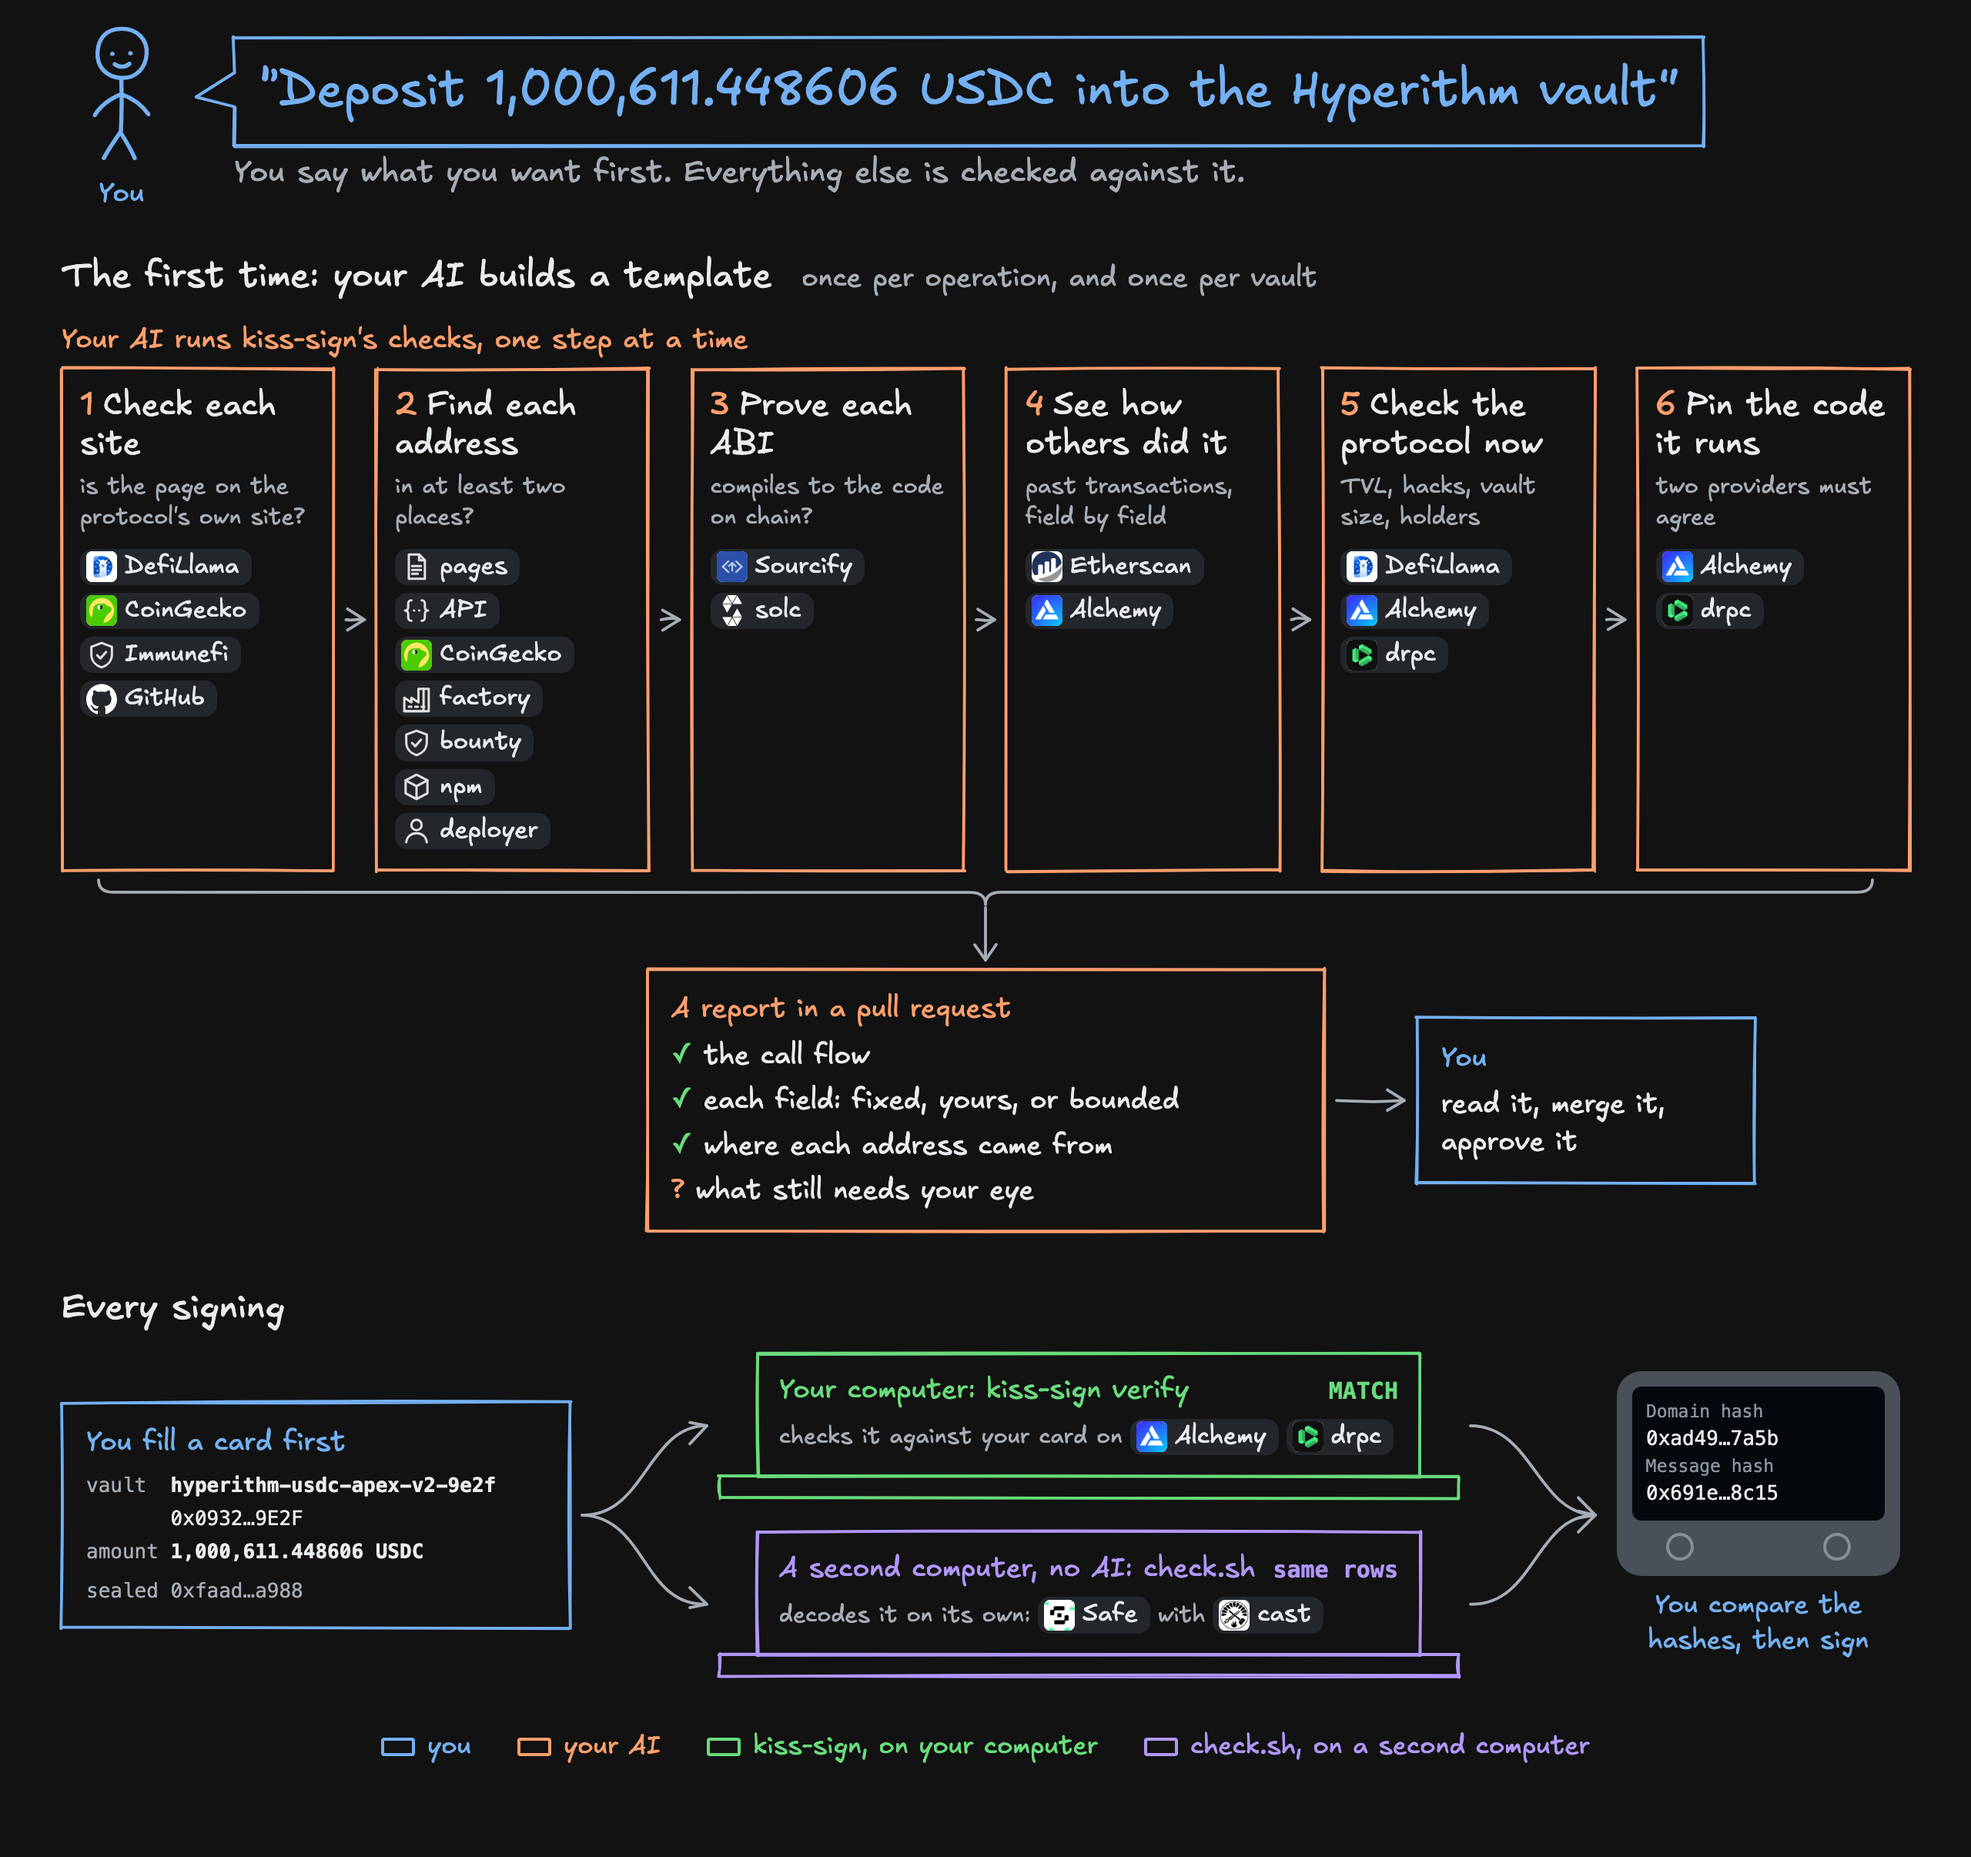
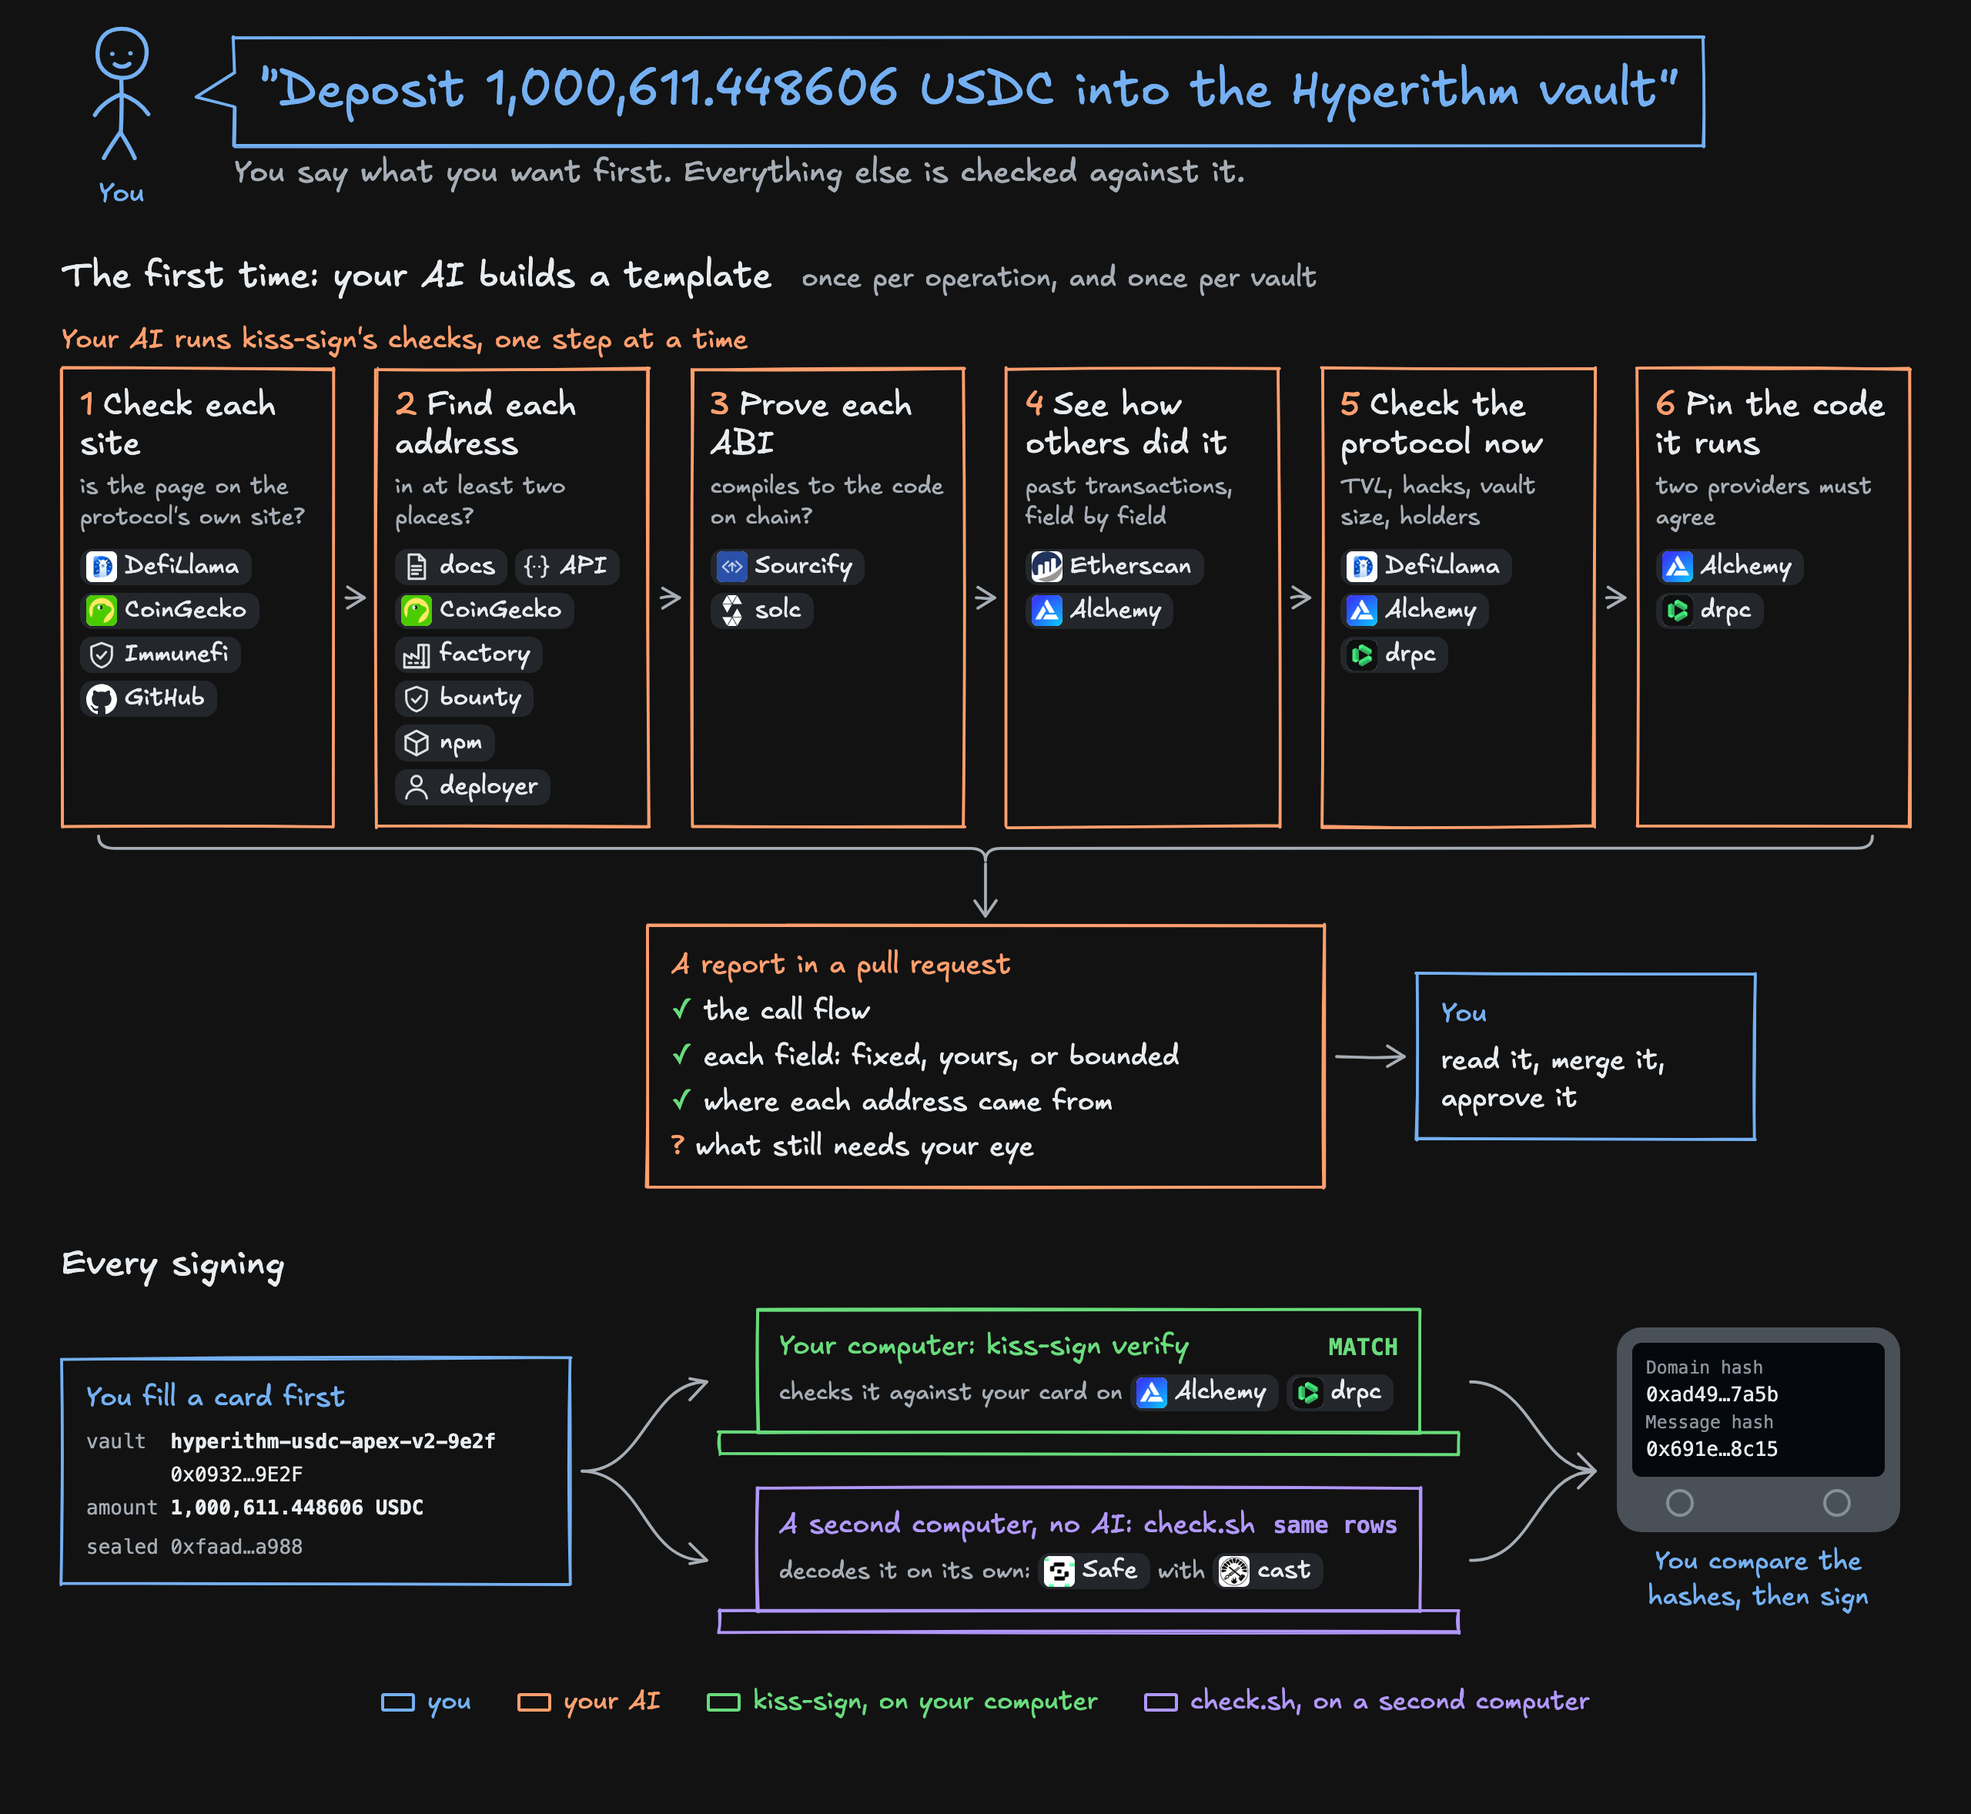
Label the official pages docs in the diagram

diff --git a/docs/diagrams/readme-overview.html b/docs/diagrams/readme-overview.html
@@ -110,7 +110,7 @@
     <div class="who">Your AI runs kiss-sign's checks, one step at a time</div>
     <div class="steps">
       <div class="sk step" id="s1"><div class="t"><span class="n">1</span>Check each site</div><div class="note">is the page on the protocol's own site?</div><div class="logos"><span class="lg"><img src="logos/defillama.jpg" alt="">DefiLlama</span><span class="lg"><img src="logos/coingecko.png" alt="">CoinGecko</span><span class="lg"><img class="mono-logo" src="logos/bounty.svg" alt="">Immunefi</span><span class="lg"><img class="mono-logo" src="logos/github.svg" alt="">GitHub</span></div></div>
-      <div class="sk step" id="s2"><div class="t"><span class="n">2</span>Find each address</div><div class="note">in at least two places?</div><div class="logos"><span class="lg"><img class="mono-logo" src="logos/docs.svg" alt="">pages</span><span class="lg"><img class="mono-logo" src="logos/api.svg" alt="">API</span><span class="lg"><img src="logos/coingecko.png" alt="">CoinGecko</span><span class="lg"><img class="mono-logo" src="logos/factory.svg" alt="">factory</span><span class="lg"><img class="mono-logo" src="logos/bounty.svg" alt="">bounty</span><span class="lg"><img class="mono-logo" src="logos/package.svg" alt="">npm</span><span class="lg"><img class="mono-logo" src="logos/deployer.svg" alt="">deployer</span></div></div>
+      <div class="sk step" id="s2"><div class="t"><span class="n">2</span>Find each address</div><div class="note">in at least two places?</div><div class="logos"><span class="lg"><img class="mono-logo" src="logos/docs.svg" alt="">docs</span><span class="lg"><img class="mono-logo" src="logos/api.svg" alt="">API</span><span class="lg"><img src="logos/coingecko.png" alt="">CoinGecko</span><span class="lg"><img class="mono-logo" src="logos/factory.svg" alt="">factory</span><span class="lg"><img class="mono-logo" src="logos/bounty.svg" alt="">bounty</span><span class="lg"><img class="mono-logo" src="logos/package.svg" alt="">npm</span><span class="lg"><img class="mono-logo" src="logos/deployer.svg" alt="">deployer</span></div></div>
       <div class="sk step" id="s3"><div class="t"><span class="n">3</span>Prove each ABI</div><div class="note">compiles to the code on chain?</div><div class="logos"><span class="lg"><img src="logos/sourcify.jpg" alt="">Sourcify</span><span class="lg"><img class="mono-logo" src="logos/solidity.svg" alt="">solc</span></div></div>
       <div class="sk step" id="s4"><div class="t"><span class="n">4</span>See how others did it</div><div class="note">past transactions, field by field</div><div class="logos"><span class="lg"><img src="logos/etherscan.svg" alt="">Etherscan</span><span class="lg"><img src="logos/alchemy.png" alt="">Alchemy</span></div></div>
       <div class="sk step" id="s5"><div class="t"><span class="n">5</span>Check the protocol now</div><div class="note">TVL, hacks, vault size, holders</div><div class="logos"><span class="lg"><img src="logos/defillama.jpg" alt="">DefiLlama</span><span class="lg"><img src="logos/alchemy.png" alt="">Alchemy</span><span class="lg"><img src="logos/drpc.png" alt="">drpc</span></div></div>
